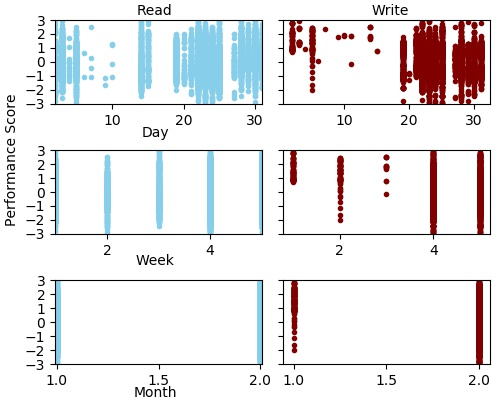
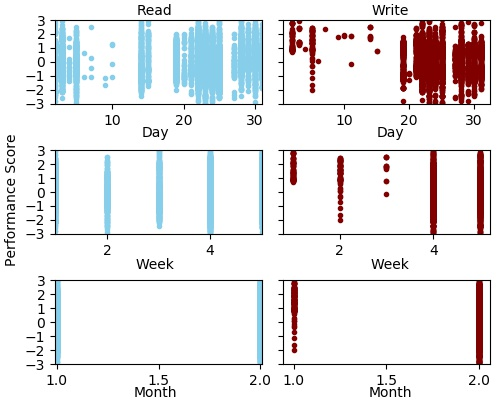
adjusting location of labels

diff --git a/example/simple_user.py b/example/simple_user.py
@@ -235,9 +235,12 @@ for app in top_apps:
         #axes[n][1].set_xlabel("%s #"%x_axis)
     fig.subplots_adjust(left=0.11, bottom=0.09, right=.98, top=.95, wspace=0.1, hspace=0.55)
     fig.text(0.31, 0.65, x_axes[0], ha='center', va='bottom')
-    fig.text(0.31, 0.33, x_axes[1], ha='center', va='bottom')
+    fig.text(0.31, 0.32, x_axes[1], ha='center', va='bottom')
     fig.text(0.31, 0.00, x_axes[2], ha='center', va='bottom')
-    fig.text(0.01, 0.6, 'Performance Score', ha='left', va='center', rotation=90)
+    fig.text(0.78, 0.65, x_axes[0], ha='center', va='bottom')
+    fig.text(0.78, 0.32, x_axes[1], ha='center', va='bottom')
+    fig.text(0.78, 0.00, x_axes[2], ha='center', va='bottom')
+    fig.text(0.01, 0.5, 'Performance Score', ha='left', va='center', rotation=90)
     fig.text(0.31, 0.99, 'Read', ha='center', va='top')
     fig.text(0.78, 0.99, 'Write', ha='center', va='top')
     #fig.text(0.
